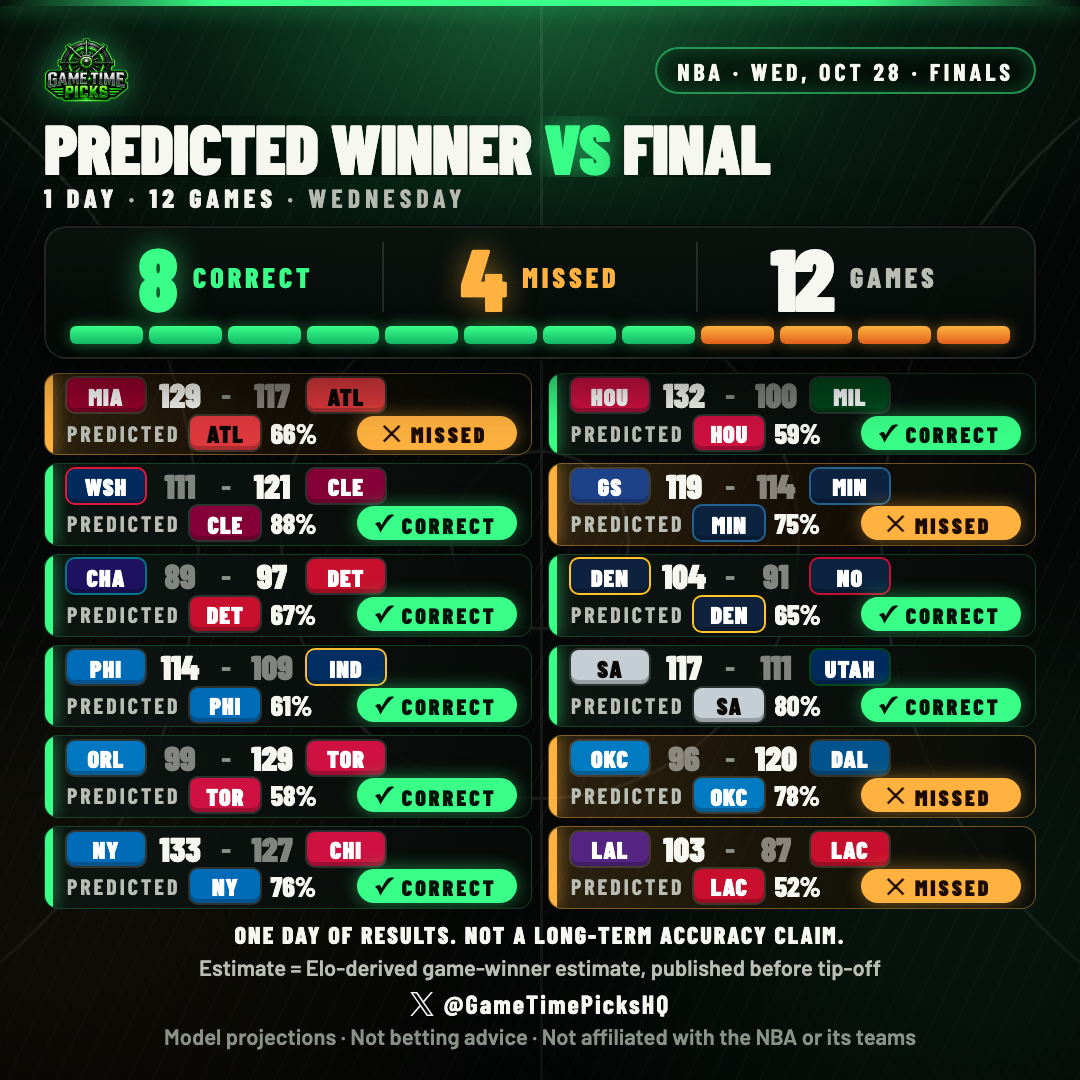
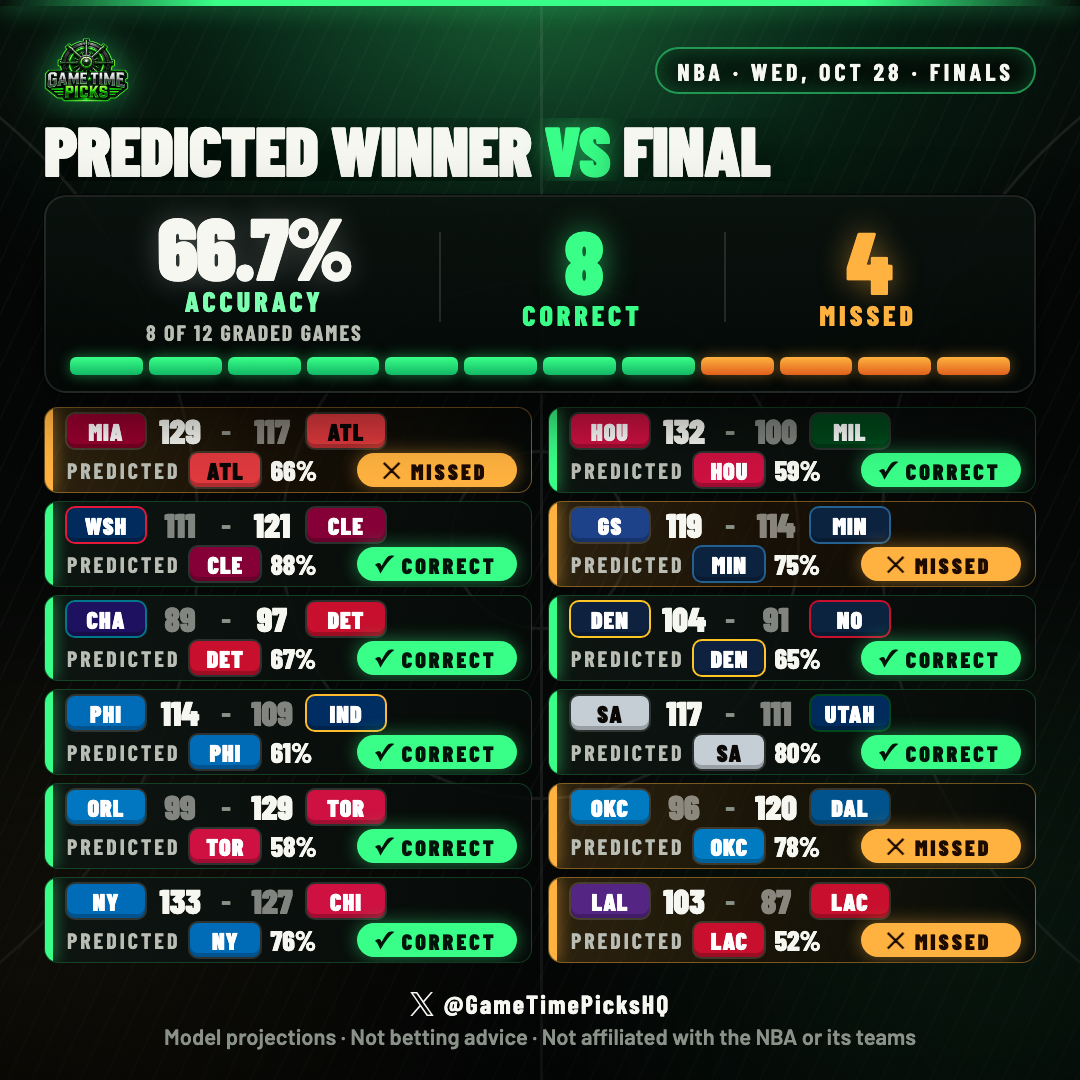
command-center: gtp-social-results@1.1 — accuracy KPI (66.7%, 8 of 12 graded games), no subtitle or context lines on the image; sport adapters
Sample size, methodology and qualifications stay in the bundle, docs and captions. The template reads
everything sport-specific from SPORT_ADAPTERS (NBA only; docs list what a sport must supply). Oct 28
review images regenerated. Unapproved; not in the queue.

diff --git a/command-center/render/templates/social-results/results.css b/command-center/render/templates/social-results/results.css
@@ -1,4 +1,4 @@
-/* gtp-social-results@1.0 — "Predicted winner vs final" scoreboard card (1080×1350 portrait, 1080×1080 square).
+/* gtp-social-results@1.1 (was 1.0) — "Predicted winner vs final" scoreboard card (1080×1350 portrait, 1080×1080 square).
    GameTimePicks tokens + the two team colours per game only. Photo-free and logo-free (no league or club marks): team
    identity is the abbreviation on its own colour. A hit and a miss get the same weight: a solid pill, a stripe and a tint
    each, neon for correct and amber for missed. Every text size is ≥ 22 px at 1080 wide. */
@@ -127,3 +127,24 @@ body { position: relative; }
 .v-square .res .m { font-size: 24px; }
 .v-square .foot { padding-top: 12px; gap: 6px; }
 .v-square .context { font-size: 24px; }
+
+/* ── 1.1: accuracy KPI first; every KPI is its number over its label; no subtitle / context lines ───────── */
+.stats { grid-template-columns: 1.3fr 2px 1fr 2px 1fr; }
+.stats .sep { height: 120px; }
+.stat { flex-direction: column; gap: 10px; min-width: 0; }
+.stat span { text-align: center; }
+.stat.acc b { color: var(--ink); text-shadow: 0 0 30px rgba(255,255,255,.22); letter-spacing: -2px; }
+.stat.acc span { color: var(--neon-soft); }
+.stat.acc .graded { max-width: 100%; white-space: nowrap; overflow: hidden; font: 700 24px/1 var(--display); letter-spacing: 3px; text-transform: uppercase; color: var(--mute); }
+.title { margin-top: 22px; }
+.tally { margin-top: 24px; padding-top: 22px; }
+.v-square .title { margin-top: 16px; }
+.v-square .tally { margin-top: 14px; padding-top: 14px; }
+.v-square .stats .sep { height: 90px; }
+.v-square .stat { gap: 6px; }
+.v-square .stat.acc .graded { font-size: 22px; letter-spacing: 2px; }
+/* only the game rows give way when space is short; the header, tally and footer keep their size */
+.content > * { flex-shrink: 0; }
+.content > .rows { flex-shrink: 1; }
+.v-portrait .stat b { font-size: 100px; }
+.v-portrait .stats .sep { height: 110px; }

diff --git a/command-center/docs/social-results-graphic-v1.md b/command-center/docs/social-results-graphic-v1.md
@@ -1,107 +1,102 @@
-# "Predicted winner vs final" results graphic: gtp-social-results@1.0
+# "Predicted winner vs final" results graphic: gtp-social-results@1.1
 
-**Status: PROTOTYPE, not approved.** This is a new design version. No approval of `gtp-social@2.3.2` or of the `gtp-social-accuracy@0.1` prototype carries over. It needs your design approval, and then each post needs its own approval. It is **not wired into the daily queue**.
+**Status: PROTOTYPE, not approved.** Neither 1.0 nor 1.1 has a design approval, and no approval of `gtp-social@2.3.x` carries over. It needs your design approval, and then each post needs its own approval. It is **not wired into the daily queue**.
 
-## Review images (Oct 28 NBA)
+## 1.1 changes (founder 10-29)
 
[2 lines of base64/hex data omitted]
+- **Removed from the image:**
+  - the "1 day · 12 games · Wednesday" subtitle;
+  - "One day of results. Not a long-term accuracy claim.";
+  - "Estimate = Elo-derived game-winner estimate, published before tip-off".
+- **Lead KPI:** the day's accuracy, computed to one decimal (66.7%). It carries the label "Accuracy" and, below it, the sample size: "8 of 12 graded games". The big "12 Games" KPI is gone; Correct and Missed stay.
+- **Kept:** every final, predicted winner, estimate share and ✓/✕ pill. Misses are as visible as hits. The X mark + @GameTimePicksHQ and the NBA disclosure stay.
+- **Internal only:** the sample size, methodology and qualifications live in the bundle (`sampleSize`, `contextLine`, `estimateLabel`, `sources`), in this doc and in the captions. Both captions still state the sample and "not a long-term accuracy claim".
 
-**Data:** both images come from commit `d367dd50fac6` (the 05:40Z results capture).
+## Review images (Oct 28 NBA, data at `d367dd50fac6`)
+
[2 lines of base64/hex data omitted]
+
+**Result: 8 of 12 correct, 4 missed (ATL, MIN, OKC, LAC), 66.7%.**
+
+The two sources:
 
 - `app/public/data/nba/experimental-public/2026-10-28.json`, sha256 `bde95d0b…7151fe`
 - `app/public/data/nba/results/finals-2026-27.json`, sha256 `0f69f5b6…a4dda56`
-
-**Result: 8 of 12 correct, 4 missed** (ATL, MIN, OKC, LAC). This is recomputed from those two files and matches the reconciliation report.
 
 ## Data: `recap/results-accuracy.mjs`
 
 `resultsAccuracy({ src, date })` returns a bundle with these fields:
 
-- `{date, sport, period: "single day", games[], correct, total, missed, excluded[], claims[], sources[]}`
-- each entry in `games[]` holds: `away`, `home`, `predictedWinner`, `winProbability`, `estimateDisplay`, `finalAway`, `finalHome`, `actualWinner` and `correct`
+- **Summary:** `{date, sport, period: "single day", games[], correct, total, missed, accuracy, accuracyDisplay, sampleSize, excluded[], claims[], sources[]}`
+- **Each entry in `games[]`:**
+  - `away`, `home`
+  - `predictedSide`, `predictedWinner`
+  - `winProbability`, `estimateDisplay`
+  - `finalAway`, `finalHome`, `actualSide`, `actualWinner`
+  - `correct`
 
 `src` is `gitDataSource(repo, ref)`, which pins every read to one commit.
 
 **Sources:**
 
-- **Prediction:** the published lane's `game.elo.favoured` (rule `nba-winner-side@1`). The public registry lists `nba_winner_side` as an Official Forecast family; if that ever changes, the builder refuses. A prediction is admitted only when `frozenAt` is before tip.
-- **Estimate:** the website's own accessor, `eloWinProbabilityOf`, loaded from the same commit. It is the same number as the pregame meter. It is shown as an "Elo-derived game-winner estimate" and never called a probability.
-- **Final:** the write-once finals record, using `STATUS_FINAL` only. A game is left out if it is an exhibition, has a recorded conflict, or its teams differ from the lane.
+- **Prediction:** the published lane's `game.elo.favoured`. Its family `nba_winner_side` must be an Official Forecast family in the public registry. A prediction is admitted only when it was frozen before tip.
+- **Estimate:** the site accessor `eloWinProbabilityOf`, loaded from the same commit. It is never called a probability.
+- **Final:** the write-once finals record (`STATUS_FINAL`). A game is left out if it is an exhibition, has a recorded conflict, or its teams differ from the lane.
 
-**Excluded games:** a game without both a pre-tip published forecast and an official final goes in `excluded[]` with a code and a reason. It is never counted and never drawn as a miss.
-
-The codes are:
-
-- `NO_PUBLISHED_WINNER`
-- `NOT_PRE_TIP`
-- `NO_OFFICIAL_FINAL`
-- `NO_PUBLISHED_FORECAST`
-- `FINAL_UNDER_REVIEW`
-- `TEAMS_DIFFER`
-- `EXHIBITION`
+**Excluded games:** a game without both a pre-tip forecast and an official final goes in `excluded[]` with a code and a reason. It is never counted and never drawn as a miss.
 
 ## Card: `render/social-results.mjs` + `render/templates/social-results/`
 
-**Layout, top to bottom:**
+The template is sport-agnostic. Everything sport-specific comes from `SPORT_ADAPTERS[sport]`; only NBA exists today. To add NFL, MLB, UFC or soccer you supply two things.
 
-1. Logo and date chip.
-2. "Predicted winner vs final".
-3. "1 day · N games".
-4. Hero tally: correct, missed, games. Under it, a bar with one segment per game, hits then misses.
-5. One row per game:
-   - team chips in the verified team colours;
-   - the final score, with the winner's score bright;
-   - the predicted team chip and its estimate;
-   - a solid ✓ CORRECT pill (neon) or ✕ MISSED pill (amber), both the same width.
-6. Footer: the context line "One day of results. Not a long-term accuracy claim.", a note explaining the estimate, the X mark with @GameTimePicksHQ, and the NBA disclosure.
+**1. A data builder.** It emits the same results-accuracy bundle (the schema above) from that sport's own official forecast of record and its official finals. For each game it supplies:
 
-**Visual rules:**
+- `predictedSide` (`home`/`away`) and `estimateDisplay` (or null);
+- the finals;
+- `actualSide`;
+- `correct`;
+- source paths + sha256 + commit;
+- exclusions with reasons.
 
-- Every miss row also carries an amber stripe and tint, so misses are as visible as hits.
-- No league or club logos and no player photos.
-- The fonts and logo are the V2.3 bundled assets.
-- All text is at least 22 px (the render measures it).
+**2. An adapter.** It provides:
 
-**When the render refuses (throws):**
+- `league`: the chip label;
+- `teamOf({abbr, name})`: returns `{abbr, color, ink, accent}` from verified colour data. No logos, no scraping.
+- `finalsWord`: e.g. "Finals" or "Full time";
+- `separator`.
+- `homeFirst` is declared on the adapter (soccer order) but the renderer does not use it yet.
+- `ties`: a sport that can draw needs a third "Draw" pill and a tally rule. This is **not implemented**; such a sport must not be rendered until it is.
 
-- any text or row overflows;
-- more than 14 games (portrait) or 12 games (square);
-- zero graded games.
+The disclosure comes from `DISCLOSURES[sport]` in `render/social-v2.mjs`. A sport without an adapter refuses to render.
 
-**Determinism:** the same bundle on the same machine gives the same PNG bytes (tested).
+**Layout and rules:**
+
+- Variants are portrait 1080×1350 (up to 14 games) and square 1080×1080 (up to 12 games).
+- All text is at least 22 px.
+- The render refuses on any overflow.
+- The same bundle on one machine gives the same PNG bytes.
 
 ## Captions
 
-`resultsAccuracyCaptions(bundle)` writes two captions: A is factual and B is narrative. Both state the miss count and the sample size.
+`resultsAccuracyCaptions(bundle)` writes two captions: A is factual and B is narrative.
 
-`validateResultsAccuracyCaption` runs `recap/caption-validator.mjs`, which checks:
-
-- every number is traceable;
-- the MLB pack's FORBIDDEN_TERMS;
-- a prediction word is present;
-- a miss is disclosed;
-- 280 characters or fewer.
-
-It then adds these checks:
-
-- no "bet", "betting", "picks", "odds", "probability" or "lock";
-- the sample size is stated;
-- the miss count is stated as "N missed" or "missed N".
+- **Both state:** the miss count and the sample size, plus "not a long-term accuracy claim".
+- **Checks:** `validateResultsAccuracyCaption` runs `recap/caption-validator.mjs` (traceable numbers, forbidden terms, a prediction word, miss disclosure, 280 characters or fewer). It also rejects bet/betting/picks/odds/probability/lock and requires both the sample size and "N missed".
 
 ## Tests
 
-`node --test tests/results-accuracy.test.mjs` runs 6 tests, all passing:
+`node --test tests/results-accuracy.test.mjs` runs 7 tests:
 
-- Oct 28 recomputed from the data;
-- a partial night, with 9 excluded games;
+- the Oct 28 recompute (8/12, 66.7%);
+- a partial night;
 - synthetic exclusions;
-- card content;
+- card content (accuracy KPI present, removed lines absent);
 - PNG size, determinism and the 22 px minimum;
-- captions.
+- captions;
+- sport adapters.
 
-## Not done / open
+## Open
 
-- **Not wired into the queue.** `orchestrator/queue-flow.mjs` has one design approval, bound to `SOCIAL_TEMPLATE` (`approveDesign` refuses any other version). A new post kind needs a per-template design approval. That touches the approval model the other sessions are changing, so it was left out on purpose.
-- **Other sports:** NBA only.
-- **Posting time:** if the finals refresh is late, the card should wait. A partial night renders with a "Not graded" line, but posting one is a judgment call.
+- **Not wired into the queue.** `queue-flow.mjs` has a single design approval, bound to `SOCIAL_TEMPLATE`. A new post kind needs a design approval per template version.
+- **Partial nights:** a partial night renders with a "Not graded" line. Whether to post one is a judgment call.
